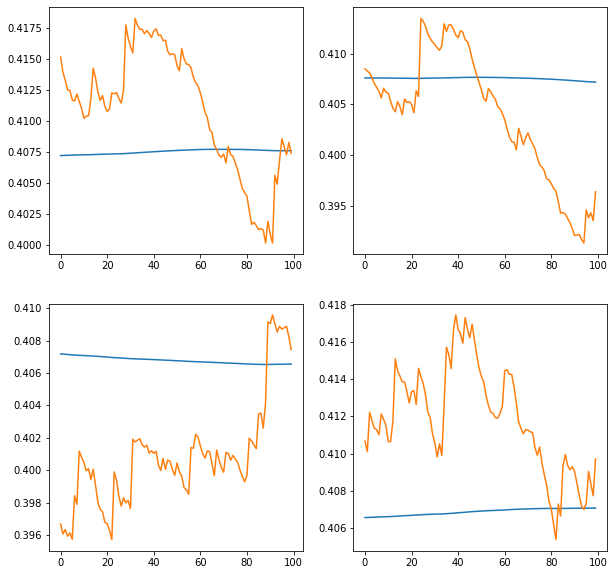
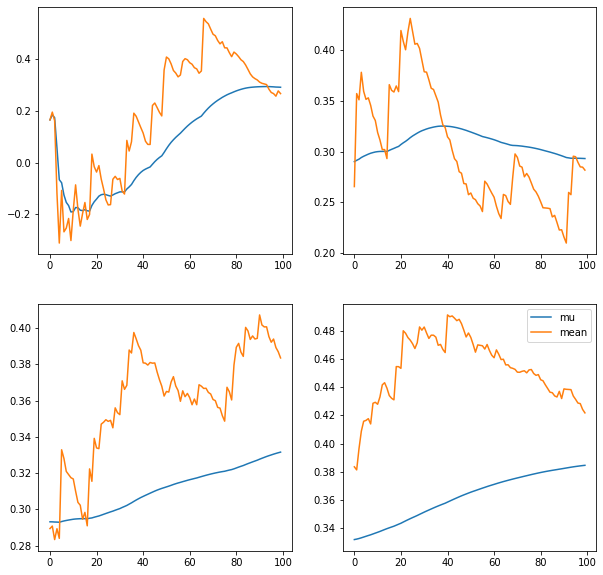
Fixed a sampling error and replaced the figures and descriptions

diff --git a/docs/_posts/2022-07-27-mab_worked_example.md b/docs/_posts/2022-07-27-mab_worked_example.md
@@ -465,14 +465,15 @@ Now that we have the strategies and arms fully working, we can run a short and s
 
 
 ```python
+from itertools import product
 from matplotlib import pyplot as plt
 
 from mab_ts2 import (STRATEGIES, ArmNormalGamma, 
                      StrategyInvestRebalancing)
 strat = lambda : StrategyInvestRebalancing(
     {fund : share for fund, share in 
-         zip(("green", "blue", "red"),STRATEGIES[3])}
-)()
+         zip(("green", "blue", "red"),
+         STRATEGIES[3])} )()
 
 arm = ArmNormalGamma(strat)
 
@@ -489,22 +490,22 @@ def _(axes, row, col, N=100):
 
     axes[row][col].plot(range(N), mus, label="mu")
     axes[row][col].plot(range(N), means, label="mean")
-    
-_(axes, 0, 0)
-_(axes, 0, 1)
-_(axes, 1, 0)
-_(axes, 1, 1)
+
+
+for row, col in product((0,1), (0,1)):
+    _(axes, row, col)
+plt.legend()
 ```
 
 That code will produce a figure similar to the one below. In the graphs the orange jagged line represents the actual mean reward produced by the arm plays, while the smooth blue line depicts the values of the $$\mu$$ paramater - the hypothetical mean.
 
 ![figure1.png](/assets/images/figure1.png)
 
-Note that due to the random nature of the game no two runs of the simulation will produce the same result. However, in all 4 graphs the values of the actual and hypothetical means are close together, and in three cases out of four the lines actually appear to converge. The latter is merely an illusion, but this convergence represents the tendency of the orange line to return to the blue one. A tendency which is better revealed in the next figure, which represents 20 000 pulls on each of the four arms.
+Note that due to the random nature of the game no two runs of the simulation will produce the same result. However, in all 4 graphs the values of the actual and hypothetical means are close together, and even appear to converge. The latter is merely an illusion, since the true mean "meanders" in a random walk and its approaching the hypothetical mean doesn't result in actual convergence. This is revealed in the next figure, which represents 20 000 pulls on each of the four arms.
 
 ![figure1_1.png](/assets/images/figure1_1.png)
 
-In the above figure we can see four different types of convergence. In the top left graph the convergence between the hypothetical and factual means appears absolute, although that is yet another illusion, caused by the bigger scale of the vertical axis due to the abnormally high and low means at the start of the run. In the top right graph the orange line repeatedly touches the blue, in the bottom left - it crosses the blue from both above and below, and in the bottom right - stays below but close to the blue. 
+In the top left graph of the above figure the hypothetical and factual means do appear to converge, but this is caused by the larger scale of the vertical axis due to the abnormally high and low means produced at the start of the run. In the other graphs the orange line crosses the blue and either stays close to it or keeps crossing it from above and below. 
 
 In all four cases the hypothetical mean tends to roughly the same value - around 0.4. This is important because although the arms in this experiment are different, they all play the same strategy, so the means should be close despite the random nature of the game.
 
